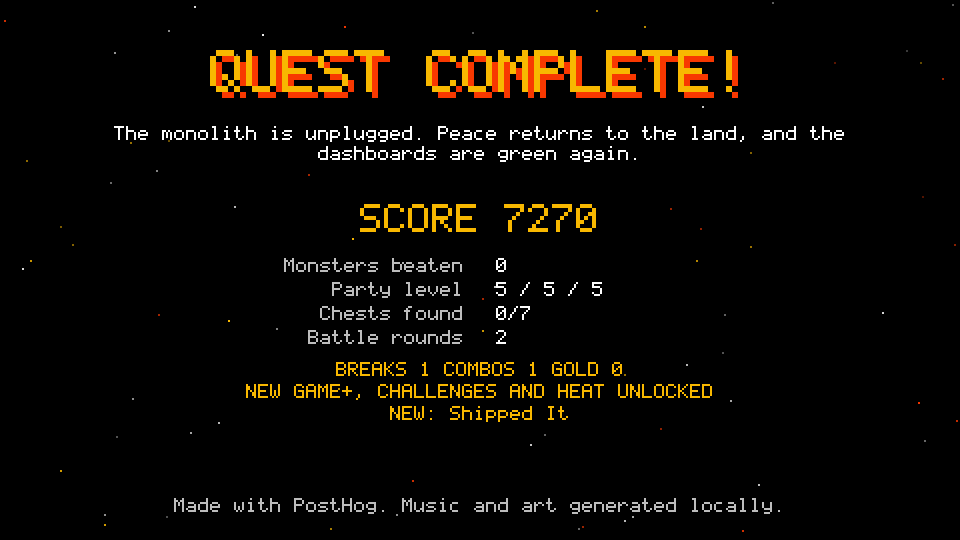
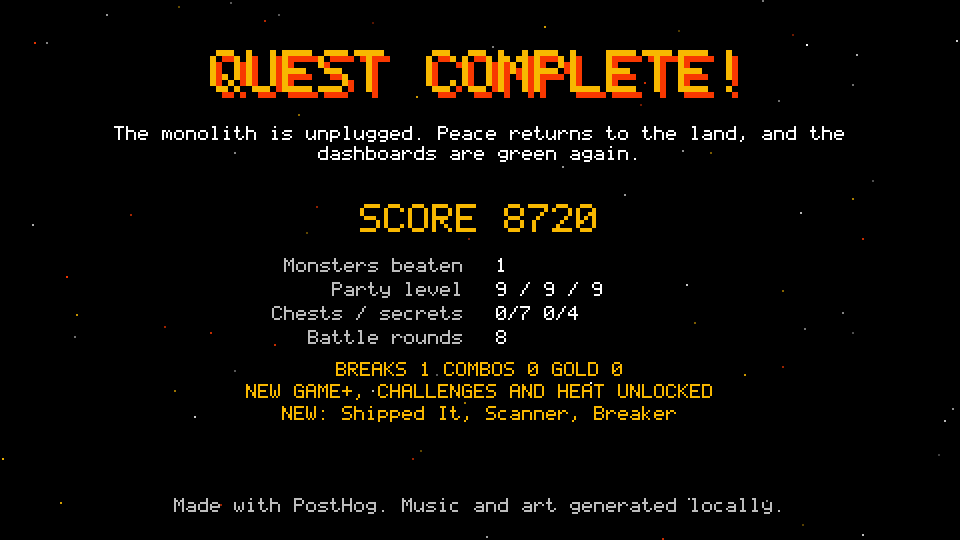
hog-saga: review fixes (Wyrm achievement only on a win, first-win unlock line, no wasted turn on a wrong item target, BREAK survives a phase change, Wyrm warning on ENTER, meter blink, frozen partners, keep the stronger NG+ party)

diff --git a/hog-saga/src/battle.ts b/hog-saga/src/battle.ts
@@ -98,6 +98,7 @@ export class BattleScene extends Phaser.Scene {
     this.ui = { mode: 'none', sel: 0, member: null, pending: null, list: [] };
     this.xpGain = 0;
     this.breaks = 0;
+    this.meterBlink = null;
     this.minHp = 1;
     this.startRounds = R.rounds;
     this.startHp = Math.round((R.party.reduce((a, m) => a + m.hp, 0) / R.party.reduce((a, m) => a + m.maxHp, 0)) * 100) / 100;
@@ -160,8 +161,8 @@ export class BattleScene extends Phaser.Scene {
   private startRounds = 0;
   private startHp = 1;
 
-  private logBattle() {
-    onBattleEnd(this.enc, this.battleBreaks());
+  private logBattle(won: boolean) {
+    onBattleEnd(this.enc, this.battleBreaks(), won);
     R.log.push({ enc: this.enc, rounds: R.rounds - this.startRounds, startHp: this.startHp, minHp: Math.round(this.minHp * 100) / 100,
       ko: R.party.filter((m) => m.hp <= 0).length, lv: R.party[0].lv });
   }
@@ -663,6 +664,11 @@ export class BattleScene extends Phaser.Scene {
     } else if (mode === 'ally') {
       const t = this.ui.list[this.ui.sel] as Member;
       const p = this.ui.pending!;
+      if (p.kind === 'item' && ((p.id === 'hotfix') !== (t.hp <= 0))) {
+        K.play('bump');
+        this.msg.setText(p.id === 'hotfix' ? `${t.name} is fine. Save the Hotfix!` : `${t.name} is knocked out. Use a Hotfix.`);
+        return;
+      }
       K.play('select');
       if (p.kind === 'skill') this.commit({ ...p, target: t });
       else if (p.kind === 'item') this.commit({ ...p, target: t });
@@ -1051,8 +1057,9 @@ export class BattleScene extends Phaser.Scene {
     this.pendingPhase = 0;
     if (!f.alive) { this.nextTurn(); return; }
     f.key = p === 2 ? 'boss2' : 'boss3';
-    f.maxShield = f.shield = AFFINITY[f.key].shield;
-    f.broken = 0;
+    // New weak spot and shield; a BREAK from the same hit still stands (the shield refills when it ends).
+    f.maxShield = AFFINITY[f.key].shield;
+    if (!f.broken) f.shield = f.maxShield;
     f.telegraph = false;
     K.play('boss');
     shake(this, 5, 400);
@@ -1148,7 +1155,7 @@ export class BattleScene extends Phaser.Scene {
   private victory() {
     if (this.over) return;
     this.over = true;
-    this.logBattle();
+    this.logBattle(true);
     this.clearMenu();
     const boss = this.enc === BOSS;
     for (const m of R.party) m.status = {};
@@ -1159,6 +1166,7 @@ export class BattleScene extends Phaser.Scene {
       this.msg.setText(`${K.theme.game.boss.name} is defeated!`);
       this.cameras.main.flash(500, 255, 255, 255);
       burst(this, this.foes[0].x, 90, 0xf8b800, 40, { colours: [0xfcfcfc, K.ui.accentInt], speed: 160 });
+      R.cleared.add(BOSS);
       onWin();
       this.time.delayedCall(Math.max(200, 1800 / R.speed), () => {
         R.over = true;
@@ -1198,7 +1206,7 @@ export class BattleScene extends Phaser.Scene {
   private defeat() {
     if (this.over) return;
     this.over = true;
-    this.logBattle();
+    this.logBattle(false);
     this.clearMenu();
     this.msg.setText('The party has fallen...');
     K.play('lose', 0.6);

diff --git a/hog-saga/src/save.ts b/hog-saga/src/save.ts
@@ -70,6 +70,13 @@ export const ngReady = () => { const s = saga(); return !!s.ngParty && s.ngParty
 export function saveWin(party: Member[], cycle: number, timeS: number, speedrun: boolean, keepParty = true) {
   if (!keepParty) return;
   const s = saga();
+  // Keep whichever party is further along, so a plain win after NG+ doesn't reset the NG+ party.
+  const total = (ms: { lv: number }[]) => ms.reduce((a, m) => a + m.lv, 0);
+  if (s.ngParty && total(s.ngParty) > total(party)) {
+    patch({ ngCycle: Math.max(s.ngCycle, cycle),
+      bestTimeS: speedrun && timeS > 0 && (s.bestTimeS === 0 || timeS < s.bestTimeS) ? Math.round(timeS) : s.bestTimeS });
+    return;
+  }
   // Keep saved members this run didn't have (if any).
   const keep = party.map((m) => ({ cls: m.cls, lv: m.lv, xp: m.xp, maxHp: m.maxHp, maxMp: m.maxMp, atk: m.atk, def: m.def, mag: m.mag,
     spd: m.spd, skills: [...m.skills], gear: { ...m.gear } }));

diff --git a/hog-saga/src/explore.ts b/hog-saga/src/explore.ts
@@ -534,6 +534,11 @@ export class ExploreScene extends Phaser.Scene {
     const chest = M.chests.findIndex((p) => p.x === t.x && p.y === t.y);
     if (chest >= 0 && !R.chests.has(chest)) { this.openChest(chest); return; }
     const enc = this.encAt(t.x, t.y);
+    if (enc === WYRM && !R.flags.has('wyrm_warned')) {
+      R.flags.add('wyrm_warned');
+      this.say([{ speaker: WYRM_NAME, text: '...' }, { text: WYRM_LINES.warn }], () => {});
+      return;
+    }
     if (enc >= 0) { this.startBattle(enc); return; }
     const gate = Object.entries(M.gates).find(([gk, ps]) => !this.open.has(gk) && ps.some((p) => p.x === t.x && p.y === t.y));
     if (gate) this.gateMessage(gate[0]);

diff --git a/hog-saga/src/progress.ts b/hog-saga/src/progress.ts
@@ -39,13 +39,13 @@ export function titleMenu(): TitleRow[] {
   return rows;
 }
 
-export function onBattleEnd(enc: number, breaks: number) {
+export function onBattleEnd(enc: number, breaks: number, won: boolean) {
   addBreaks(breaks);
   if (breaks > 0) achieve('break1');
   if (saga().totalBreaks >= 30) achieve('break30');
   if (R.scans > 0) achieve('scan');
   if (R.combos > 0) achieve('combo');
-  if (enc === 9) { markWyrm(); achieve('wyrm'); }
+  if (enc === 9 && won) { markWyrm(); achieve('wyrm'); }
   void enc === BOSS;
 }
 

diff --git a/hog-saga/src/ai.ts b/hog-saga/src/ai.ts
@@ -138,7 +138,7 @@ function attackOptions(m: Member, foes: Foe[]): Option[] {
 
 export function bestCombo(v: BattleView, m: Member): ComboId | null {
   if (R.meter < METER.max) return null;
-  const up = (c: string) => R.party.some((p) => p.cls === c && p.hp > 0 && p !== m);
+  const up = (c: string) => R.party.some((p) => p.cls === c && p.hp > 0 && p !== m && !(p.status.frozen ?? 0));
   const opts = (Object.keys(COMBOS) as ComboId[]).filter((id) => {
     const pair = COMBOS[id].pair;
     if (!pair.includes(m.cls)) return false;

diff --git a/hog-saga/OVERNIGHT-REPORT.md b/hog-saga/OVERNIGHT-REPORT.md
@@ -1,0 +1,59 @@
+# Hog Saga: overnight report (2026-09-27 22:00 -> 2026-09-28)
+
+Branch `overnight/20260927-2143/hog-saga`. Only `hog-saga/` changed. **No theme fields were added**; every
+existing theme (default, 3 examples, the acme-rockets prospect) loads and plays. Design notes and the
+tuning history are in `DESIGN-NOTES.md`; how it plays now, the hooks and the balance table are in `KIT.md`.
+
+## What shipped
+| Commit | Milestone |
+|---|---|
+| `d2ad2a9` | **P0 battle depth + P1 world/replay.** Damage kinds (STRIKE/MAGIC/DATA) with a weakness and a resistance per archetype, SCAN, shields and BREAK; statuses LEAK/FROZEN/SLOW/FOCUS with 8x8 icons; the Ship It meter and 4 pair combos with cut-ins; enemy AI scripts per archetype (swarm focus-fire, tank guard, caster cure/buff, brute wind-up, boss telegraphed MASS OUTAGE and a moving weak spot); juice (lunges, slashes, sparkles, flashes, crit hitstop + shake, bouncy numbers, WEAK!/RESIST/BREAK! pops, swirl transition, victory jingle, level-up fanfare) and **battle + boss music** from `music.py` (fixed kit audio, `public/assets/kit/`). Gold, 15 gear pieces in weapon/armour/charm slots with auto-equip, a town shop, a secret grove, a cracked-wall vault, the Old Dev side quest, the optional Tech Debt Wyrm, footer completion (gold, chests x/7, secrets x/4), heat 0-5, New Game+ (party carried over, chests remixed by seed), SOLO HOG / NO ITEMS / SPEEDRUN, 14 achievements. |
+| `0791cbb` | **P2.** Seeded overworld events (travelling Merchant with discounted rare gear, stray chests that are sometimes Mimics), FRONT/BACK row formation, `tools/reach.mjs` map check (found and fixed a real unreachable-item bug), a "newcomer" autopilot to check first-run approachability, and balance for newcomer/hard/solo/NG+/heat. `debug.flood()` so the Gate 1 load test runs (60 fps). |
+| `215050a` | DAILY mode (shared daily seed: same events for everyone that day), readable boss "!" and BREAK! (were under the top box), how-to hint about SHIP IT and "!", `debug.fight(n)`. |
+| `eb7bd16` | Enemy moves as a handler table (`foemoves.ts`) instead of a switch; status names in the turn prompt; `debug.status`. |
+| `8363722` | First-visit title is clean again (the MODE/HEAT rows only appear after a first win); score now rewards breaks, combos and secrets with multipliers for heat, NG+ and challenges; `overnight-shots/`. |
+| `3ec8782` | Fixes from self-review: NO ITEMS shop sells gear only; a solo win no longer overwrites the NG+ party. |
+
+## Balance (bot, tools/bot.py; full table in KIT.md)
+- normal 10/10, boss 8-10 rounds, ~56% party HP left; hard 10/10, boss 9-12, ~48%; easy 10/10.
+- **Newcomer bot** (ignores SCAN, weaknesses, DEFEND and rows; does press the flashing SHIP IT!):
+  normal 9/10, hard 7/8 with near-wipes. This was 6/8 on normal before softening MASS OUTAGE.
+- Heat 3: 6/6 (boss 12-14 rounds with phase 3). Heat 5: 4/6 (0 potions; losses in the first fights).
+- SOLO HOG 7/8 (boss 17-26 rounds, tight). NG+ after a real win: LV 6 -> 8, boss 11 rounds.
+- Optional content bot (`debug.optional(true)`): 4/4 wins, all 7 chests, 4/4 secrets, LV 7.
+- Run length: `__game.elapsed` median 338 s on normal (now counts battle time too; no reading time),
+  so a human first run stays around 6-8 minutes. Encounter count and route are unchanged.
+
+## Cut, changed or not done
+- Challenge "toggles" are exclusive MODE choices (the shared title supports 2 rows of single choices).
+- Party/foe status icons are 8x8 (tiny at 1x zoom); the turn prompt now names them to compensate.
+- A per-run "bestiary" that persists weakness knowledge across runs was considered and skipped: it
+  would remove the SCAN decision from later runs.
+- `battle.ts` is still ~1,260 lines (party skills are a switch as before; enemy moves moved to a table).
+- The shared `debug.goto('Title')` shows a black screen when called while already on the title
+  (debug-only; works from in-game). Not touched (shared/).
+
+## Please decide
+- **Difficulty feel for execs.** The newcomer bot wins normal 9/10 and easy always. Real execs may
+  play worse than the bot (it never wastes turns). If first-run losses show up in PostHog, lower
+  `OUTAGE` in `foemoves.ts` (1.7) or the boss HP (1400) a little.
+- **Music.** The two battle tracks came straight from `music.py` (one take each, 40 s and 45 s loops,
+  levels match the overworld track). Nobody has listened to them: worth a quick listen and a re-roll.
+- **Kit NPC names** (Old Dev, Merchant, Tech Debt Wyrm, Mimic Chest) and gear names are fixed text.
+  The theme prompt now asks the writer not to reuse them.
+- Achievements toast mid-game (4 of them usually pop on a first win). Fine for delight, but noisy
+  if you'd rather keep the first run clean; `progress.ts` is the place.
+
+## Screenshots (`overnight-shots/`)
+01 first-visit title, 02 title after a win (MODE + HEAT rows, NG+ stars), 03 SHIP IT ready, 04 guard
++ wind-up + revealed weaknesses, 05 BREAK, 06 boss telegraph "!", 07 status icons, 08 shop, 09 merchant,
+10 party screen with rows and gear, 11 secret grove toast, 12 side quest, 13 the Wyrm on the map,
+14 mimic fight, 15 End screen after a first win, 16 frames from the Gate 2 GIF on acme-rockets
+(chart blast, LAUNCH DAY cut-in, BREAK!), 17 combo menu and HOTFIX RUSH cut-in.
+
+## SHARED-REQUESTS (see SHARED-REQUESTS.md)
+End-screen achievement line overflow, kit debug hooks before the game scene, shared extra music tracks,
+a bouncy `pop` option, a `runRng(salt)` helper, multi-select title toggles.
+
+## Gates at the final commit
+GATES_PLACEHOLDER
